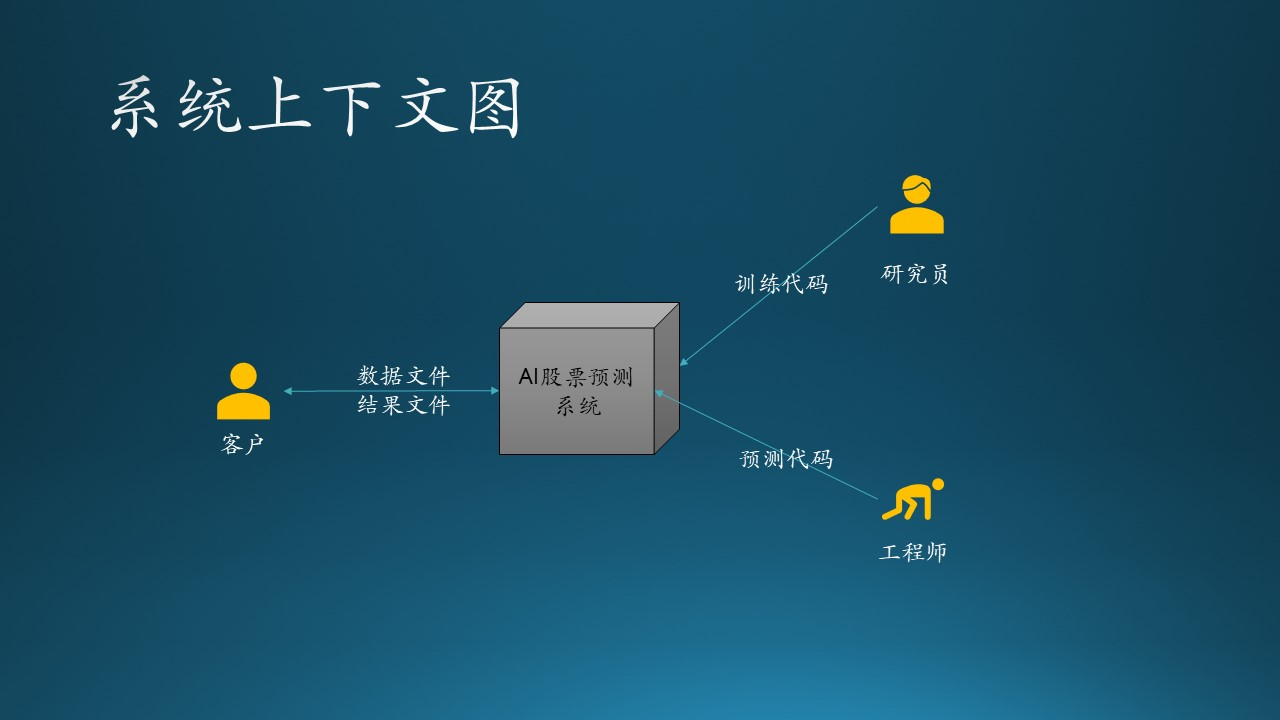
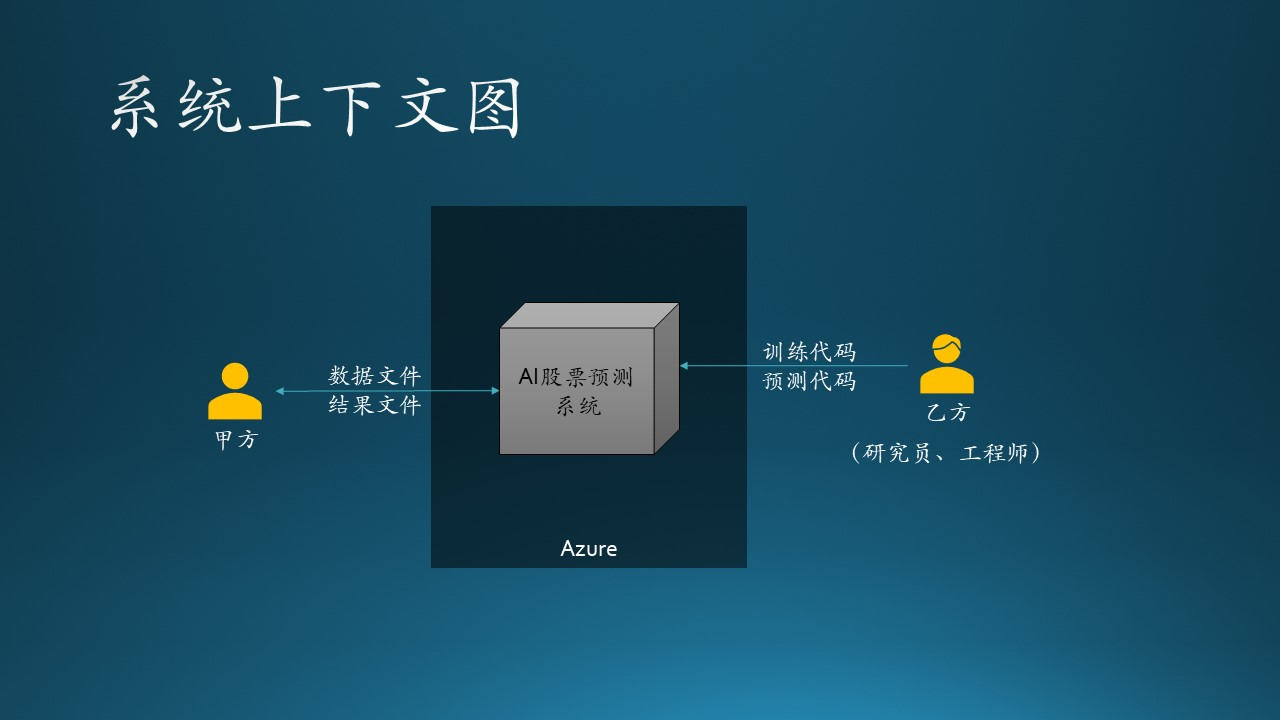
update

diff --git a/A-基础教程/A5-现代软件工程（更新中）/第5部分 设计与实现/ch11-系统设计/11.1 第一步：从需求到用例图.md b/A-基础教程/A5-现代软件工程（更新中）/第5部分 设计与实现/ch11-系统设计/11.1 第一步：从需求到用例图.md
@@ -2,7 +2,7 @@
 
 在这一部分中，我们先来复习一下需求分析的基本内容，以便和后面的设计部分无缝连接。
 
-## 10.3.1 应用场景
+## 11.1.1 应用场景
 
 我们仍然使用 10.2.2 节中的项目的故事为例，来说明一个完整分析、设计过程。为了方便阅读，我们再重复一下这个故事场景。
 
@@ -14,28 +14,58 @@
 
 - 我软的工程师们，会监控客户的上传数据动作，一旦上传结束后，立刻在 Azure 上启动预测流程，调用研究员的模型库，根据最新交易结果进行预测，得到预测结果后，通知客户下载。
 
+- 整个系统要求构建在 Azure 技术架构之上。
 
-## 10.3.2 系统上下文图
+
+## 11.1.2 系统上下文图
+
+先根据应用场景绘制一个系统上下文图，搞清楚系统边界，见图11.1.1。
 
 <div align="center">
 <img src="Images/Slide3.JPG"/>
-图 10.3.1 - 系统上下文图
+图 11.1.1 - 系统上下文图
 </div>
 
-## 10.3.3 用例图
+可以看到，这是一个独立的 AI 股票预测系统，要求构建在 Azure 上，周边没有任何其它系统交互，只有两种参与者：甲方（客户）、乙方（研究员、工程师）。当然，对于客户来说，分不清研究员和工程师的职责，也没必要知道。
 
+## 11.1.3 用例图
 
-
-
-
-
+其次，针对三种参与者绘制用例图。由于此图是给乙方内部看的，所以一定要分清研究员和工程师的职责。见图 11.1.2。
 
 <div align="center">
 <img src="Images/Slide4.JPG"/>
-图 10.3.1 - 子系统图
+图 11.1.2 - 用例图
 </div>
 
-我们根据上面的需求描述，把每个参与者（用户、研究员、工程师）的数据流图单独画出来，这样可以避免一开始就陷入复杂的逻辑纠缠中。
+我们根据 11.1.1 节的需求描述，把每个参与者（客户、研究员、工程师）的用例图单独画出来，这样可以避免一开始就陷入复杂的逻辑纠缠中。
+
+### 研究员的工作
+
+1. 提交训练代码
+2. 模型训练
+   - 数据处理
+   - 模型组合
+3. 模型管理
+   - 提取模型
+   - 保存模型
+   - 发布模型
+   - 模型验证
+
+### 工程师的工作
+
+1. 提交预测代码
+2. 模型预测
+   - 提取模型
+   - 验证模型
+   - 数据处理
+   - 发布结果
+
+### 客户的使用
+
+1. 上传文件
+2. 下载文件
+
+## 11.1.4 子系统图
 
 图 10.3.1 的独立数据流图描述了需求分析的结果。
 ## 10.3.4 子系统图

diff --git a/A-基础教程/A5-现代软件工程（更新中）/第5部分 设计与实现/ch10-原型设计/10.4 估计与计划.md b/A-基础教程/A5-现代软件工程（更新中）/第5部分 设计与实现/ch10-原型设计/10.4 估计与计划.md
@@ -58,13 +58,13 @@ COCOMO II 模型的使用场景如下：
 则根据公式10.4.1：
 
 $$
-B = 0.91 + 0.01\sum_{i=1}^5{W_i} \tag{10.4.1}
+B = 0.91 + \frac{1}{100}\sum_{i=1}^5{W_i} \tag{10.4.1}
 $$
 
 计算得到B值为：
 
 $$
-B=0.91+0.01\times(2.48+3.04+5.65+1.10+4.68)=1.0795
+B=0.91+(2.48+3.04+5.65+1.10+4.68)/100=1.0795
 $$
 
 ## 10.4.3 工作量评估

diff --git a/A-基础教程/A5-现代软件工程（更新中）/第5部分 设计与实现/ch11-系统设计/11.2 第二步：从用例图到数据流图.md b/A-基础教程/A5-现代软件工程（更新中）/第5部分 设计与实现/ch11-系统设计/11.2 第二步：从用例图到数据流图.md
@@ -1,6 +1,6 @@
 # 第二步 从用例图到数据流图
 
-## 10.3.1 需求分析初步
+## 10.2.1 需求分析初步
 
 我们根据上面的需求描述，把每个参与者（用户、研究员、工程师）的数据流图单独画出来，这样可以避免一开始就陷入复杂的逻辑纠缠中。
 
